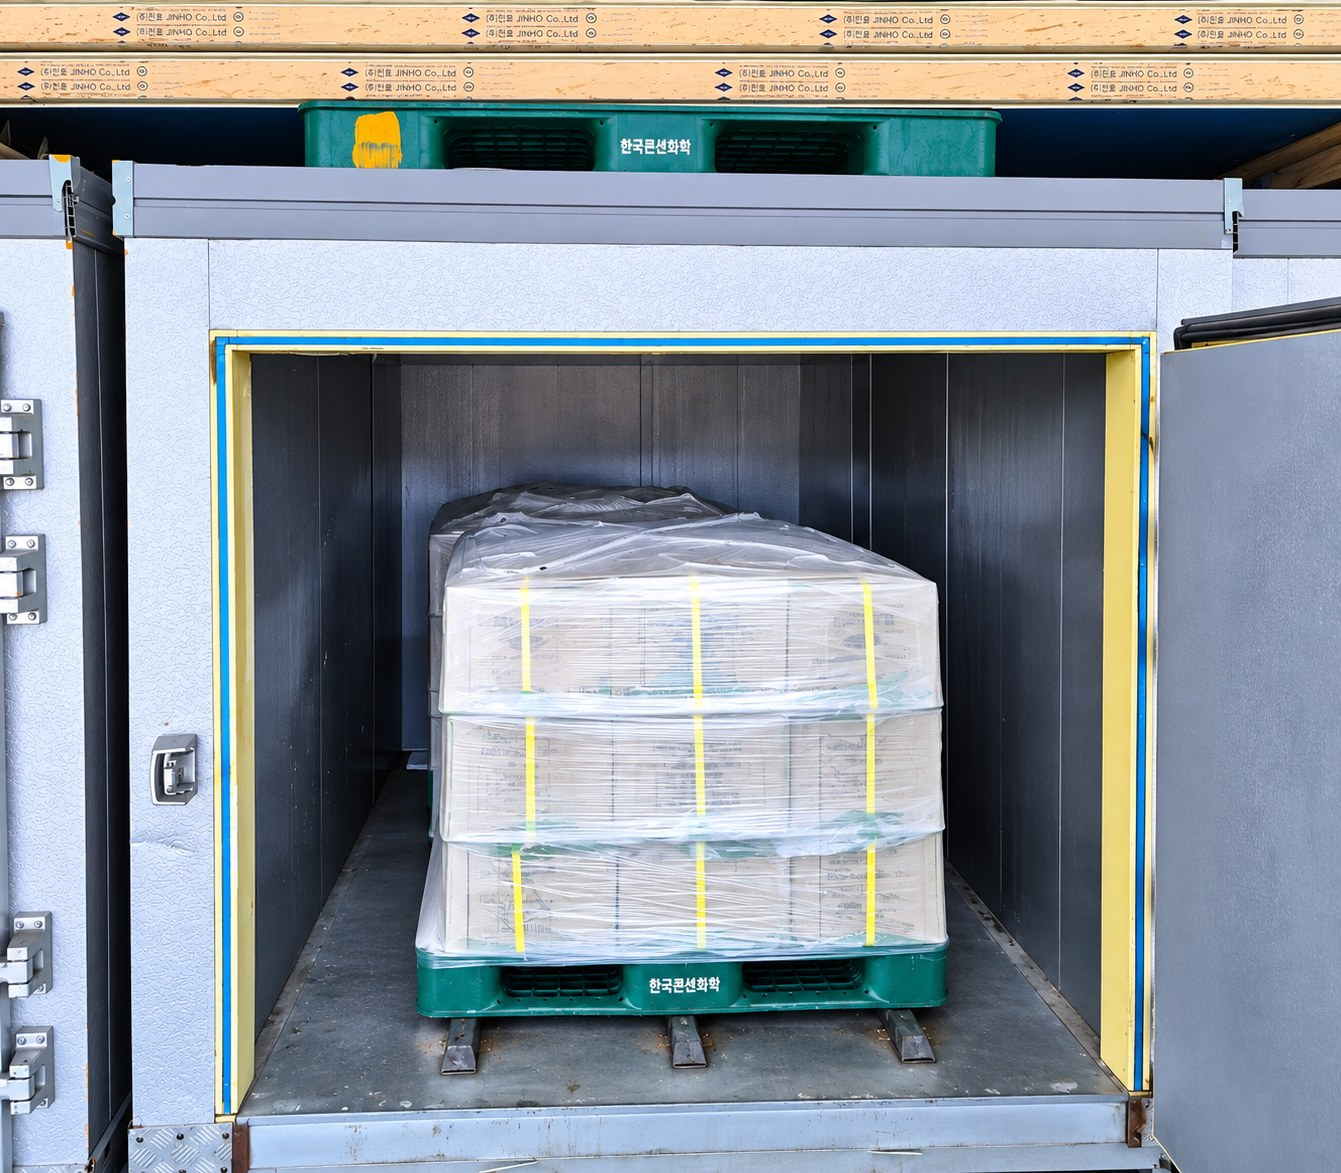
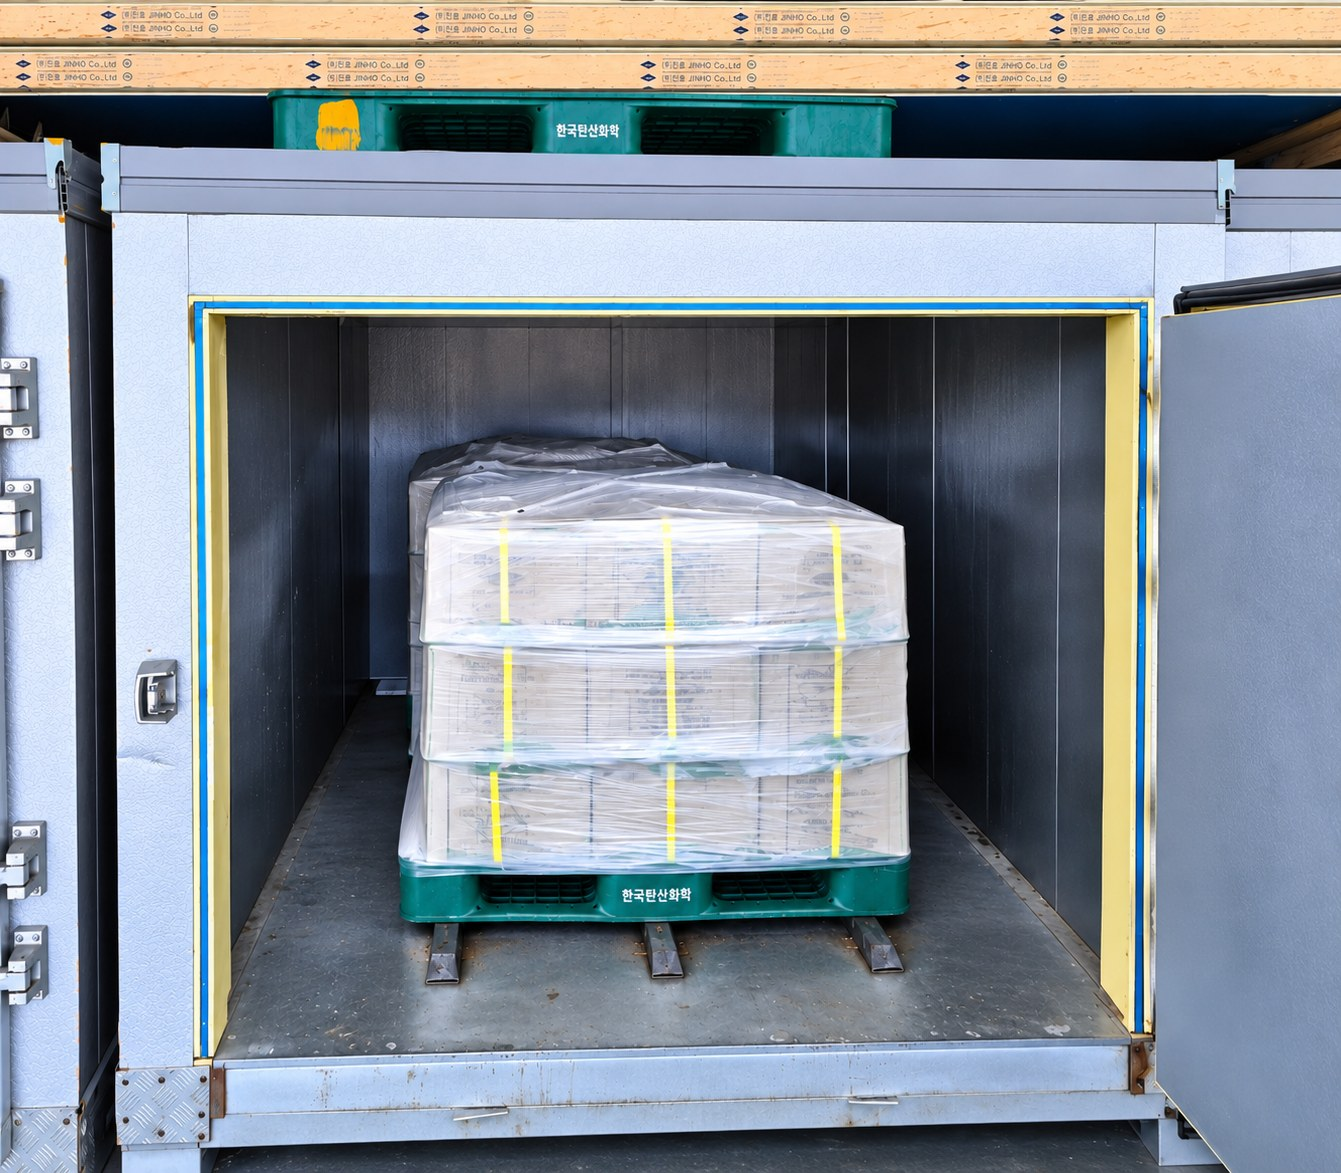
드라이아이스 너겟 라인업 마지막 사진을 보냉 컨테이너 적재·보관 사진으로 교체. ice-nugget-9.jpg ?v=20260914

diff --git a/products-ice.html b/products-ice.html
@@ -170,7 +170,7 @@
             <img class="ice-slide" src="assets/images/site/ice-nugget-6.jpg?v=20260913b" alt="드라이아이스 자동 적재·팔레타이징 설비" loading="lazy">
             <img class="ice-slide" src="assets/images/site/ice-nugget-7.jpg?v=20260913b" alt="팔레트 적재·랩핑 완료 드라이아이스 박스 출하" loading="lazy">
             <img class="ice-slide" src="assets/images/site/ice-nugget-8.jpg?v=20260913b" alt="보냉 컨테이너 적재·보관 드라이아이스 팔레트" loading="lazy">
-            <img class="ice-slide" src="assets/images/site/ice-nugget-9.jpg?v=20260913b" alt="보냉 컨테이너 드라이아이스 팔레트 출하 대기" loading="lazy">
+            <img class="ice-slide" src="assets/images/site/ice-nugget-9.jpg?v=20260914" alt="보냉 컨테이너 드라이아이스 팔레트 출하 대기" loading="lazy">
             <button type="button" class="ice-slideshow__arrow ice-slideshow__arrow--prev" aria-label="이전 사진">&#8249;</button>
             <button type="button" class="ice-slideshow__arrow ice-slideshow__arrow--next" aria-label="다음 사진">&#8250;</button>
             <div class="ice-slideshow__dots" aria-hidden="true"></div>
